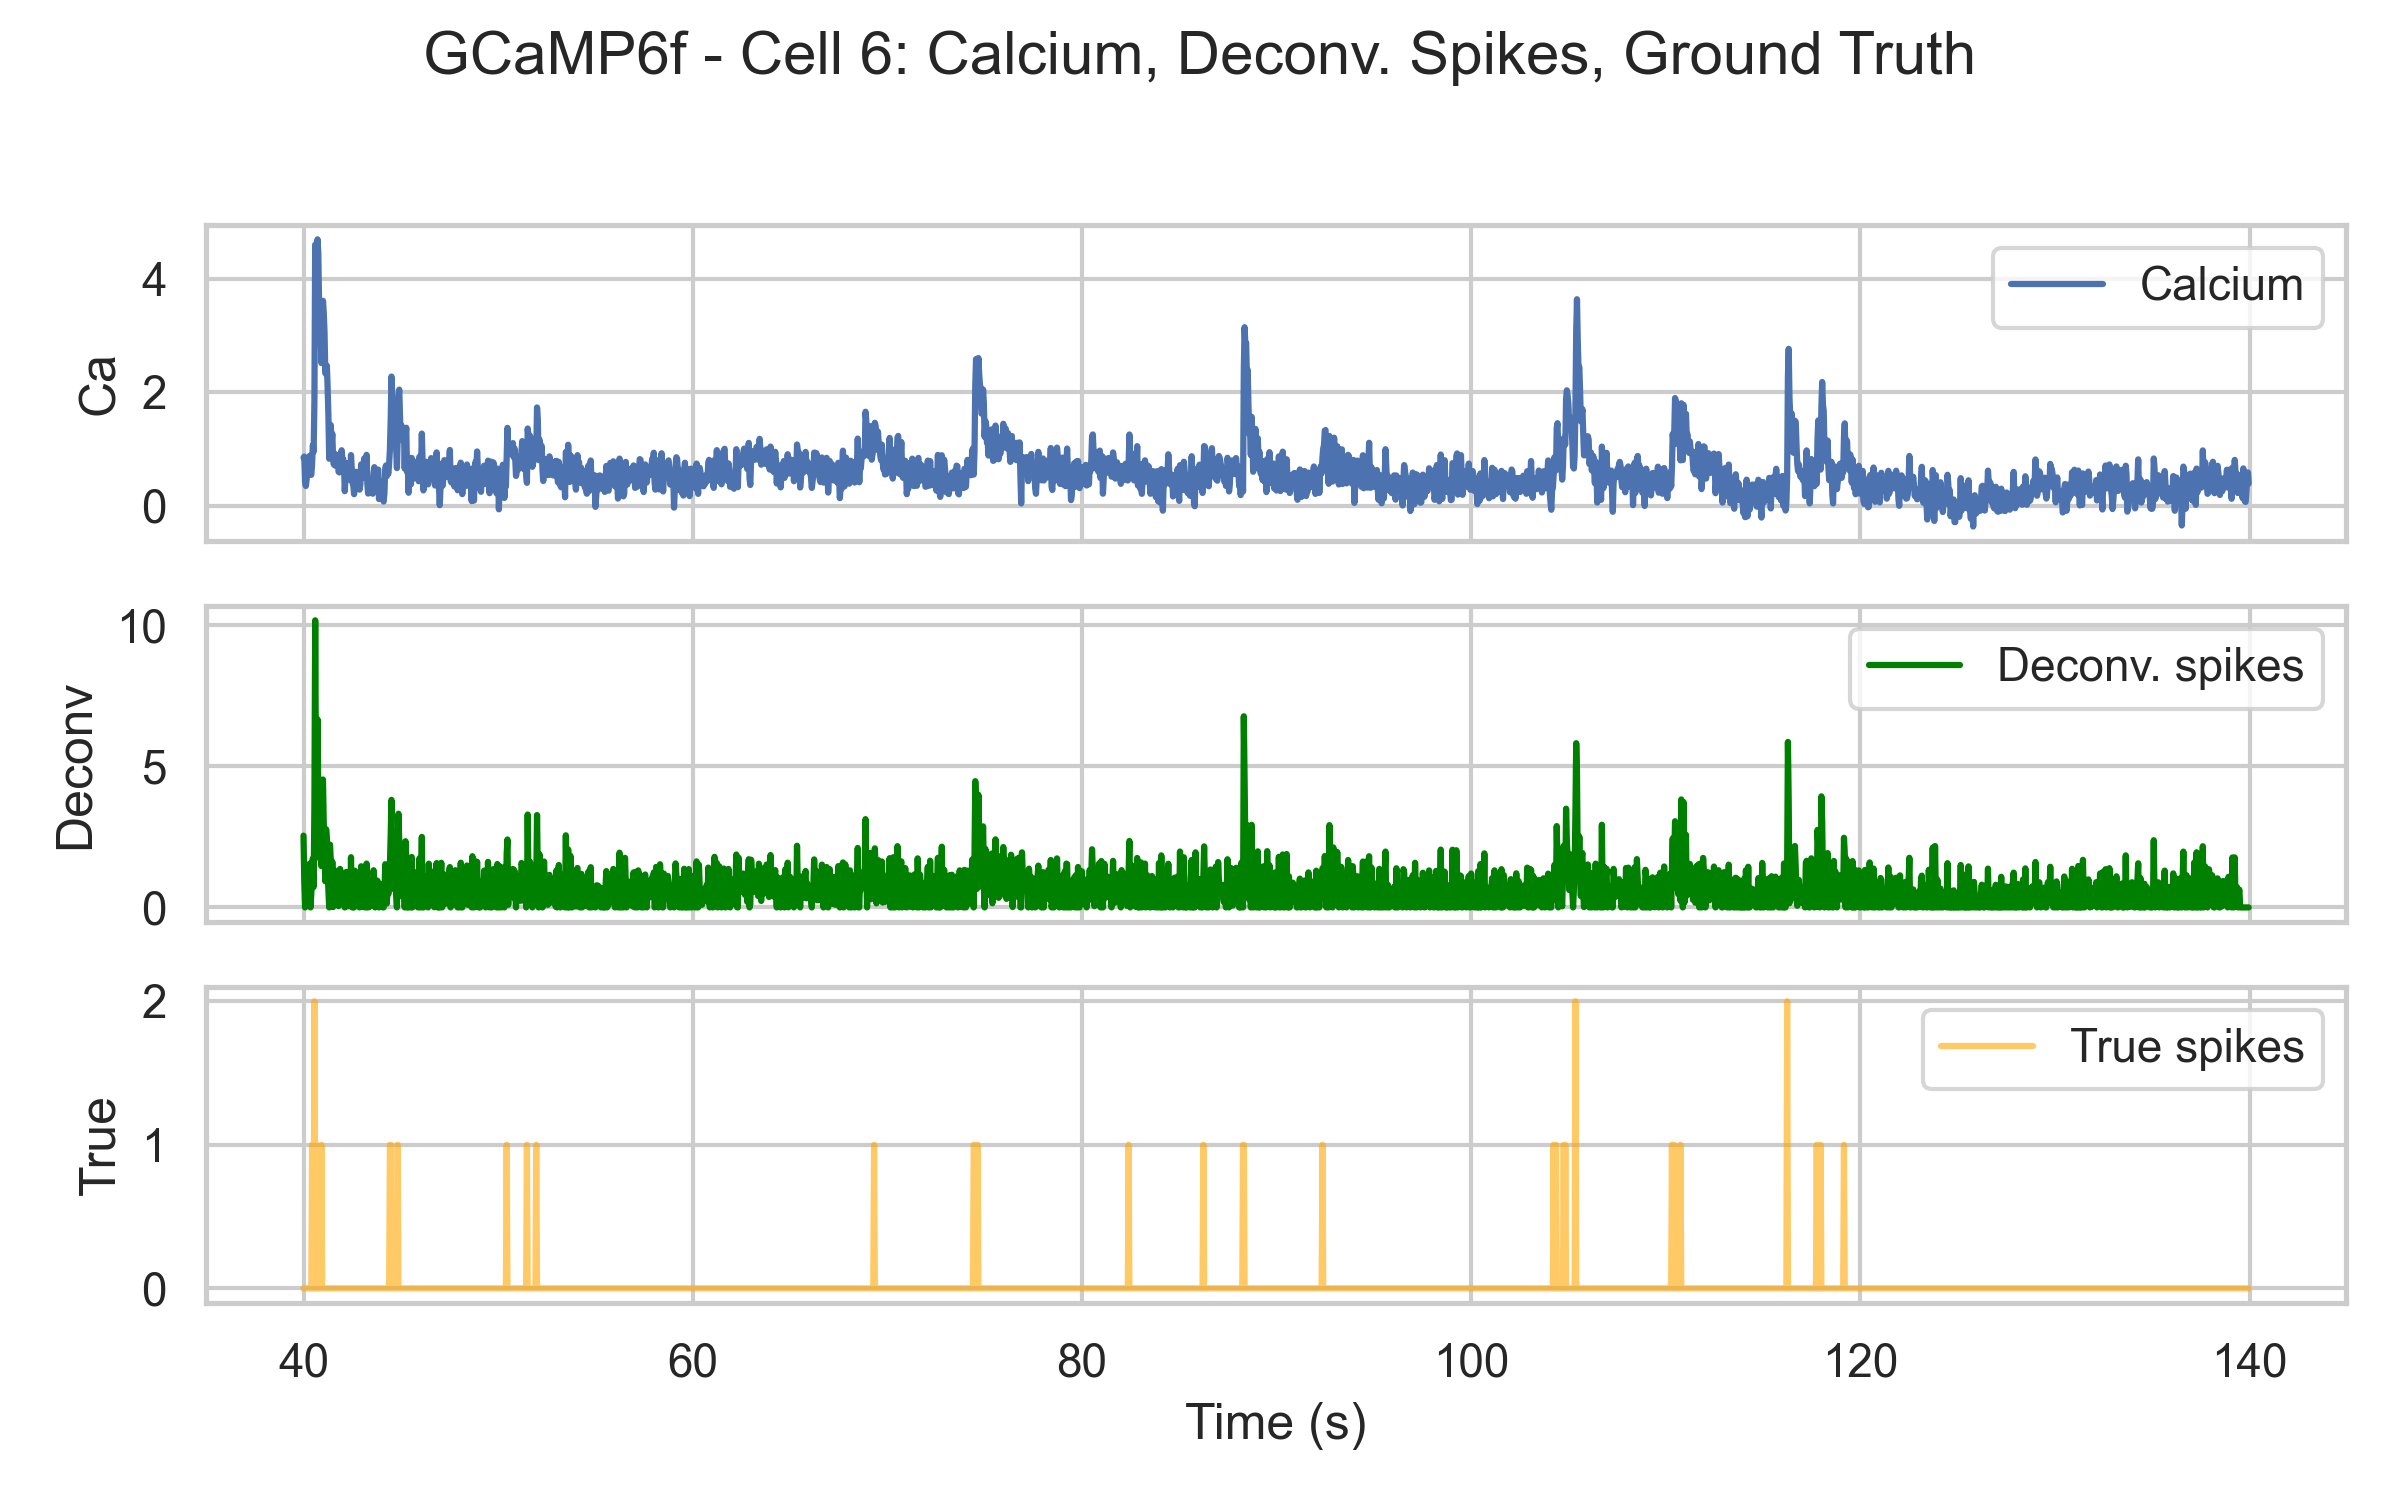
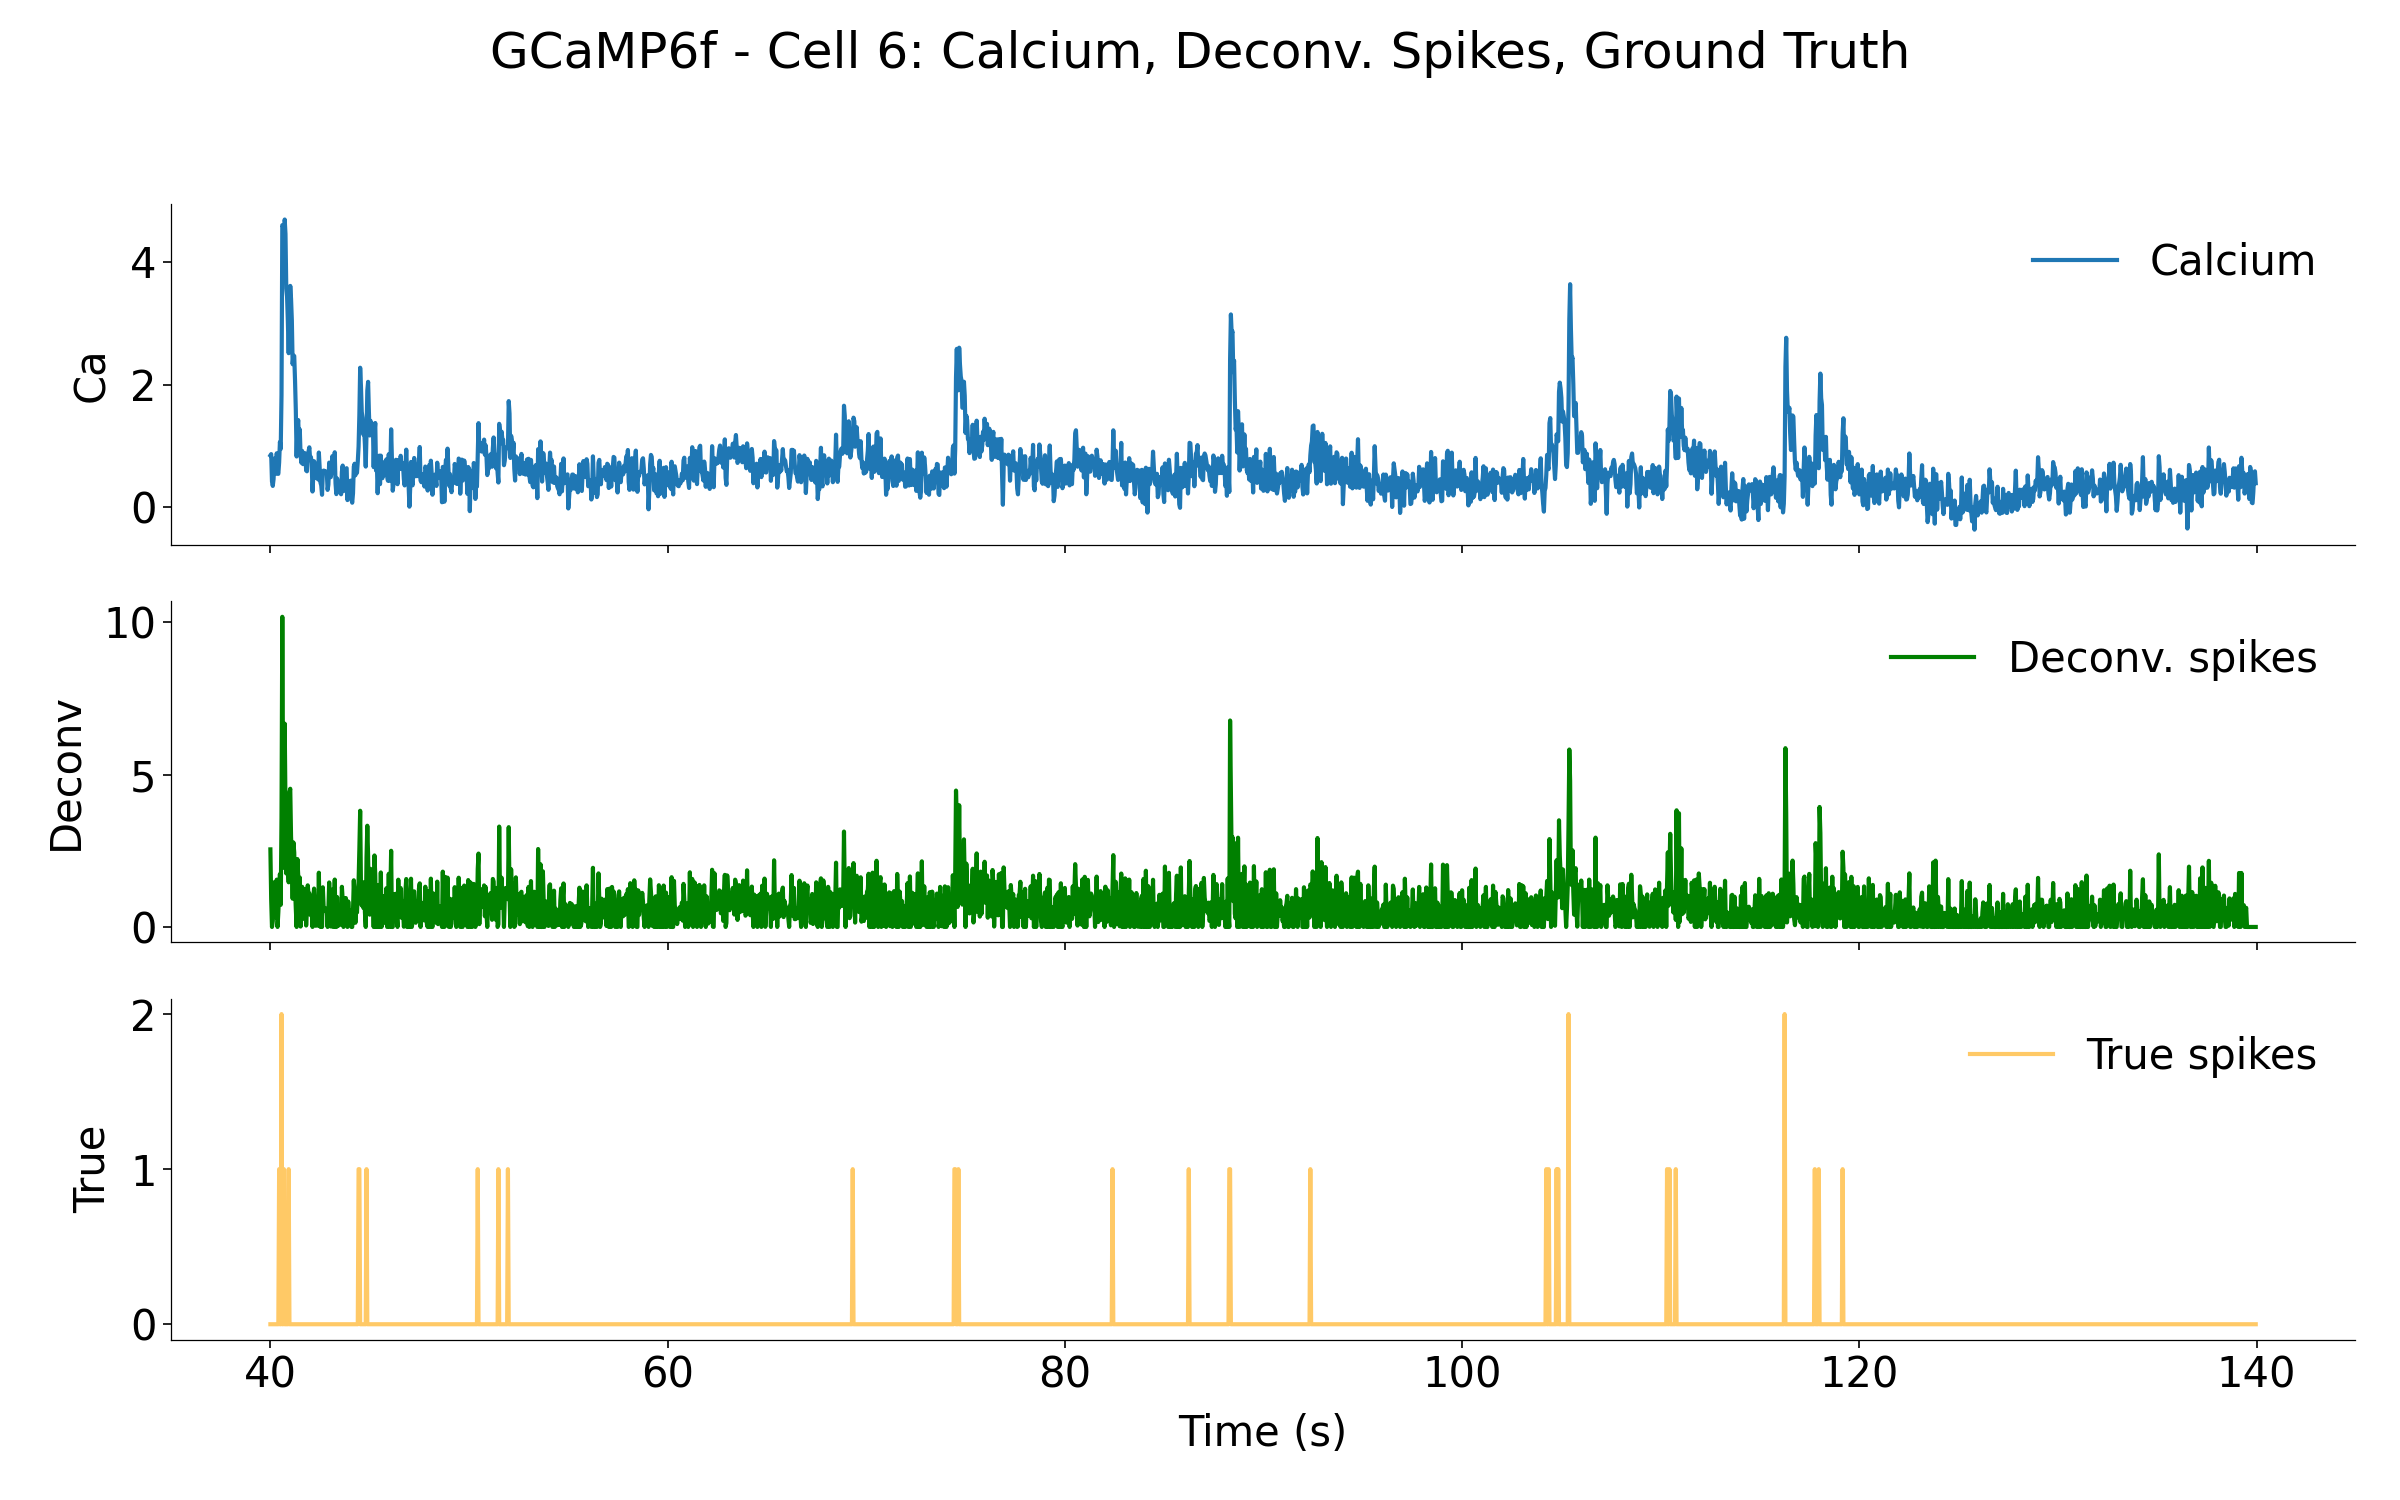
ad deconvolution plotting to notebook.

diff --git a/notebooks/lab-3.py b/notebooks/lab-3.py
@@ -376,44 +376,8 @@ ca_ogb = resampled_ogb_calcium[start:end, cell_ogb]
 true_spikes_ogb = resampled_ogb_spikes[start:end, cell_ogb] 
 
 #%%
-# Run deconvolution
-sp_hat_ogb = deconv_ca(ca_ogb, tau=tau_ogb, dt=dt)
-
-# Plotting
-fig, axs = plt.subplots(3, 1, figsize=(8, 5), sharex=True)
-time = np.arange(start, end) / new_sampling_rate
-
-axs[0].plot(time, ca_ogb, label="Calcium")
-axs[0].set_ylabel("Ca")
-axs[0].legend()
-
-axs[1].plot(time, sp_hat_ogb, label="Deconv. spikes", color="green")
-axs[1].set_ylabel("Deconv")
-axs[1].legend()
-
-axs[2].plot(time, true_spikes_ogb, label="True spikes", color="orange", alpha=0.6)
-axs[2].set_ylabel("True")
-axs[2].set_xlabel("Time (s)")
-axs[2].legend()
-
-plt.suptitle("OGB - Cell 5: Calcium, Deconv. Spikes, Ground Truth")
-plt.tight_layout()
-plt.savefig("../plots/ogb_deconv.png", dpi=300)
-plt.show()
-
-
 #%%
-# GCaMP example: cell 6
-cell_gcamp = 6
-tau_gcamp = 0.1  # seconds
-
-ca_gcamp = resampled_gcamp_calcium[start:end, cell_gcamp]
-true_spikes_gcamp = resampled_gcamp_spikes[start:end, cell_gcamp] 
-
-# Run deconvolution
-sp_hat_gcamp = deconv_ca(ca_gcamp, tau=tau_gcamp, dt=dt)
-#%%%
-
+#%%
 def plot_deconvolution_results_comparison(
     calcium_trace_segment: np.ndarray,
     true_spikes_segment: np.ndarray,
@@ -490,6 +454,27 @@ def plot_deconvolution_results_comparison(
         print(f"Plot saved to {save_filename}")
 
     plt.show()
+
+
+#%%
+# Plotting
+cell_ogb = 5
+tau_ogb = 0.5  # seconds
+ca_ogb = resampled_ogb_calcium[start:end, cell_ogb]
+true_spikes_ogb = resampled_ogb_spikes[start:end, cell_ogb]
+
+plot_deconvolution_results_comparison(
+    calcium_trace_segment=ca_ogb,
+    true_spikes_segment=true_spikes_ogb,
+    time_points=time,
+    tau_value=tau_ogb,
+    dt_value=dt,
+    deconvolution_function=deconv_ca,
+    plot_title="OGB - Cell 5: Calcium, Deconv. Spikes, Ground Truth",
+    save_filename="../plots/ogb_deconv_cell5.png"
+)
+
+#%%
 # Call the function to plot the deconvolution results for GCaMP
 
 # --- Assumed variables from your notebook's context for GCaMP Cell 6 ---
